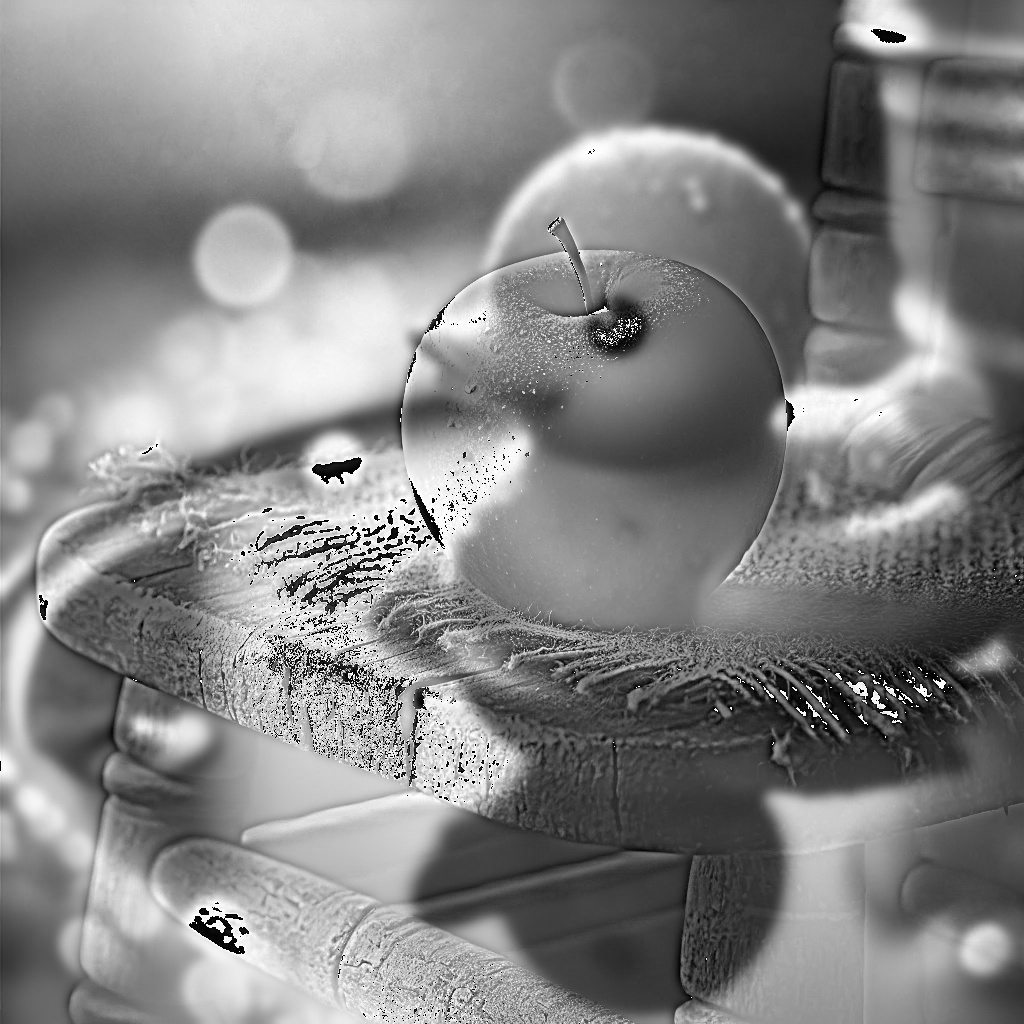
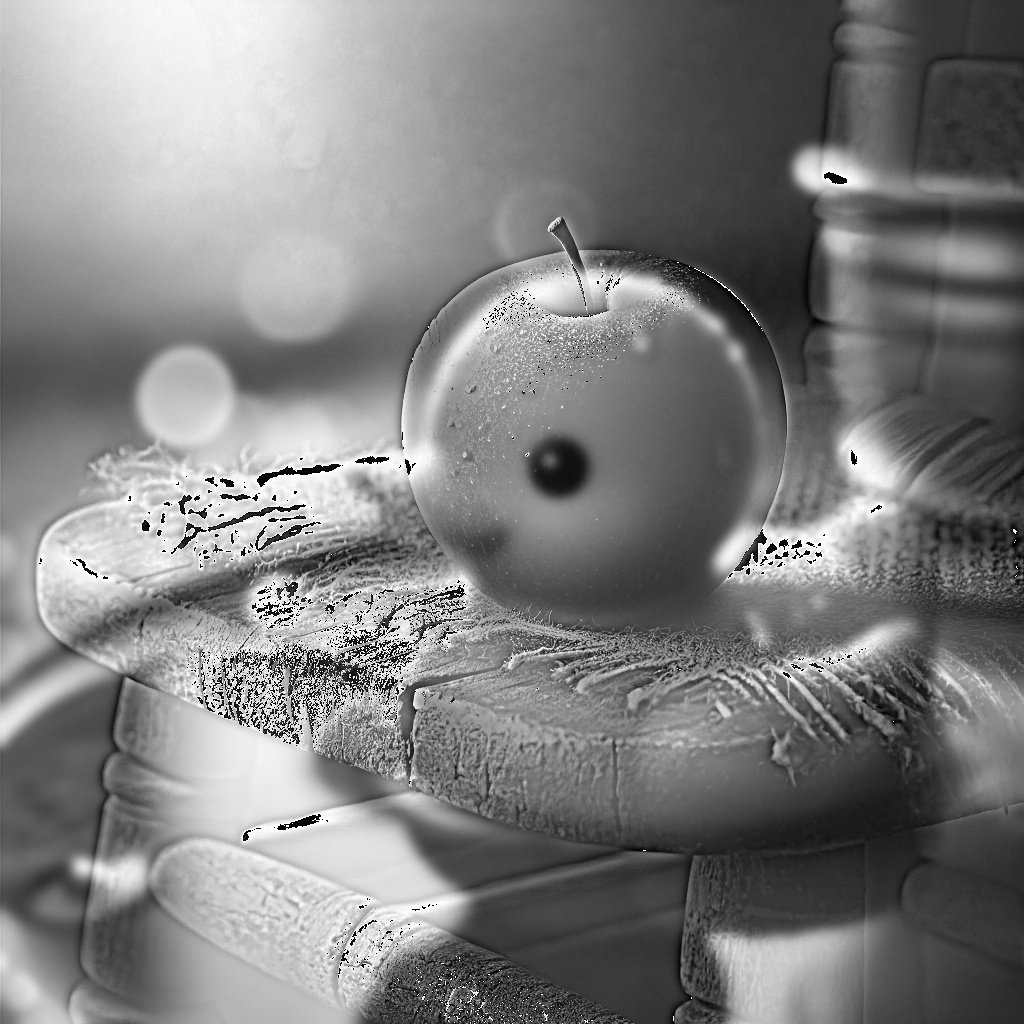
finished + report

diff --git a/ex3/src/pyramid_blend.py b/ex3/src/pyramid_blend.py
@@ -3,12 +3,22 @@ import numpy as np
 import matplotlib.pyplot as plt
 import cv2 as cv
 
-PYRAMID_LEVELS = 6
+PYRAMID_LEVELS = 8
 
 
 def print_pyramid_shape(pyr):
-    for i in range(PYRAMID_LEVELS):
+    for i in range(len(pyr)):
         print(pyr[i].shape)
+
+
+def display_pyramids(pyr, title="Pyramid"):
+    plt.figure(figsize=(15, 15))
+    for i, level in enumerate(pyr):
+        plt.subplot(1, len(pyr), i + 1)
+        plt.imshow(cv.cvtColor(level, cv.COLOR_BGR2RGB) if len(level.shape) == 3 else level, cmap="gray")
+        plt.title(f"Level {i}")
+        plt.axis("off")
+    plt.show()
 
 
 def restore_image(l_pyr):
@@ -22,29 +32,21 @@ def restore_image(l_pyr):
 
 def merge_pyramids(l_pyr_a, l_pyr_b, g_pyr_mask):
     merged = [[] for _ in range(PYRAMID_LEVELS)]
-    print_pyramid_shape(g_pyr_mask)
-    # g_pyr_mask.reverse()
-    # print_pyramid_shape(l_pyr_a)
-    # print_pyramid_shape(l_pyr_b)
-    print_pyramid_shape(g_pyr_mask)
     for i in range(PYRAMID_LEVELS):
-        # print(i, g_pyr_mask[PYRAMID_LEVELS - 1 - i].shape)
-        merged[i] = g_pyr_mask[PYRAMID_LEVELS - 1 - i] * l_pyr_a[i] + (1 - g_pyr_mask[PYRAMID_LEVELS - 1 - i]) * l_pyr_b[i]
+        merged[i] = g_pyr_mask[PYRAMID_LEVELS - 1 - i] * l_pyr_a[i] + (1 - g_pyr_mask[PYRAMID_LEVELS - 1 - i]) * \
+                    l_pyr_b[i]
 
     return merged
 
 
 def get_g_pyr(img):
     pyr_head = img.copy()
-    # print(pyr_head.shape)
     g_pyr = [pyr_head]
 
     for i in range(PYRAMID_LEVELS):
         pyr_head = cv.pyrDown(pyr_head)
-        # print(pyr_head.shape)
         g_pyr.append(pyr_head)
-    # print_pyramid_shape(g_pyr)
-    # print(g_pyr)
+
     return g_pyr
 
 
@@ -52,10 +54,7 @@ def get_l_pyr(img):
     g_pyr = get_g_pyr(img)
     l_pyr = [g_pyr[PYRAMID_LEVELS - 1]]
     for i in range(PYRAMID_LEVELS - 1, 0, -1):
-        # print(i)
-        # print(len(g_pyr))
         expanded_g = cv.pyrUp(g_pyr[i])
-        # print(expanded_g.shape, g_pyr[i - 1].shape)
         subtracted_l = cv.subtract(g_pyr[i - 1], expanded_g)
         l_pyr.append(subtracted_l)
 
@@ -63,27 +62,44 @@ def get_l_pyr(img):
 
 
 def blend_images(img_a, img_b, mask):
-    # get the laplacian pyramids of both images
     l_pyr_a = get_l_pyr(img_a)
     l_pyr_b = get_l_pyr(img_b)
-    # normalize mask and get the gaussian pyramid of the mask
     mask = mask / 255.0
     m_pyr = get_g_pyr(mask)
-    # print_pyramid_shape(m_pyr)
-    # merge pyramids
     merged = merge_pyramids(l_pyr_a, l_pyr_b, m_pyr)
-    # reconstruct image from merged pyramids
     return restore_image(merged)
 
 
 def main(image_a_p, image_b_p, mask_p):
     img_a = cv.imread(image_a_p)
     img_b = cv.imread(image_b_p)
-    mask = cv.imread(mask_p)
-    # print(img_b.shape, mask.shape)
-    # print(img_a.shape, img_b.shape, mask.shape)
+    mask = cv.imread(mask_p, cv.IMREAD_GRAYSCALE)  # Ensure mask is grayscale
+
+    # Display pyramids for debugging and visualization
+    print("Gaussian Pyramid of Image A")
+    g_pyr_a = get_g_pyr(img_a)
+    display_pyramids(g_pyr_a, "Gaussian Pyramid A")
+
+    print("Gaussian Pyramid of Image B")
+    g_pyr_b = get_g_pyr(img_b)
+    display_pyramids(g_pyr_b, "Gaussian Pyramid B")
+
+    print("Gaussian Pyramid of Mask")
+    g_pyr_mask = get_g_pyr(mask)
+    display_pyramids(g_pyr_mask, "Gaussian Pyramid Mask")
+
+    print("Laplacian Pyramid of Image A")
+    l_pyr_a = get_l_pyr(img_a)
+    display_pyramids(l_pyr_a, "Laplacian Pyramid A")
+
+    print("Laplacian Pyramid of Image B")
+    l_pyr_b = get_l_pyr(img_b)
+    display_pyramids(l_pyr_b, "Laplacian Pyramid B")
+
+    # Blend images
     blended = blend_images(img_a, img_b, mask)
     cv.imwrite("pictures/blended.jpg", blended)
+    print("Blended image saved to pictures/blended.jpg")
 
 
 if __name__ == "__main__":
